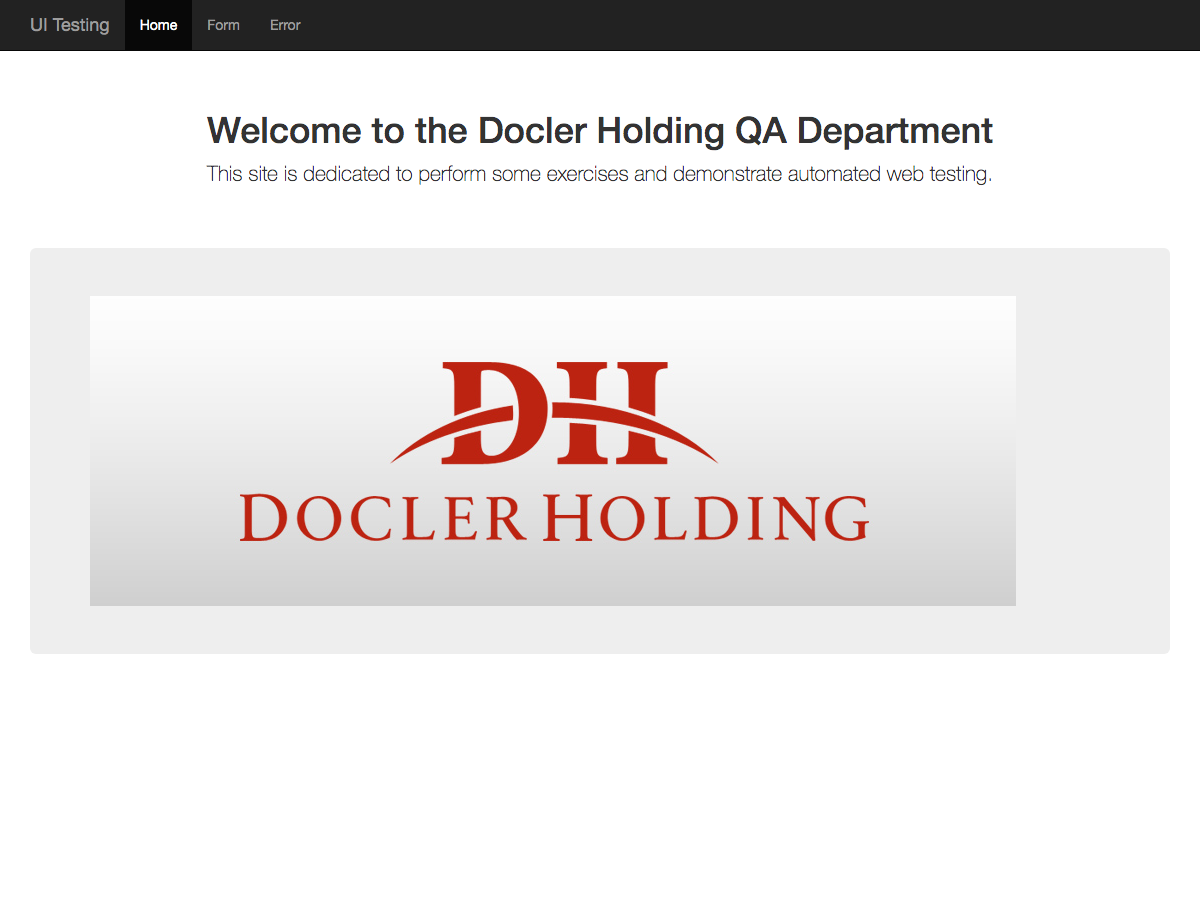
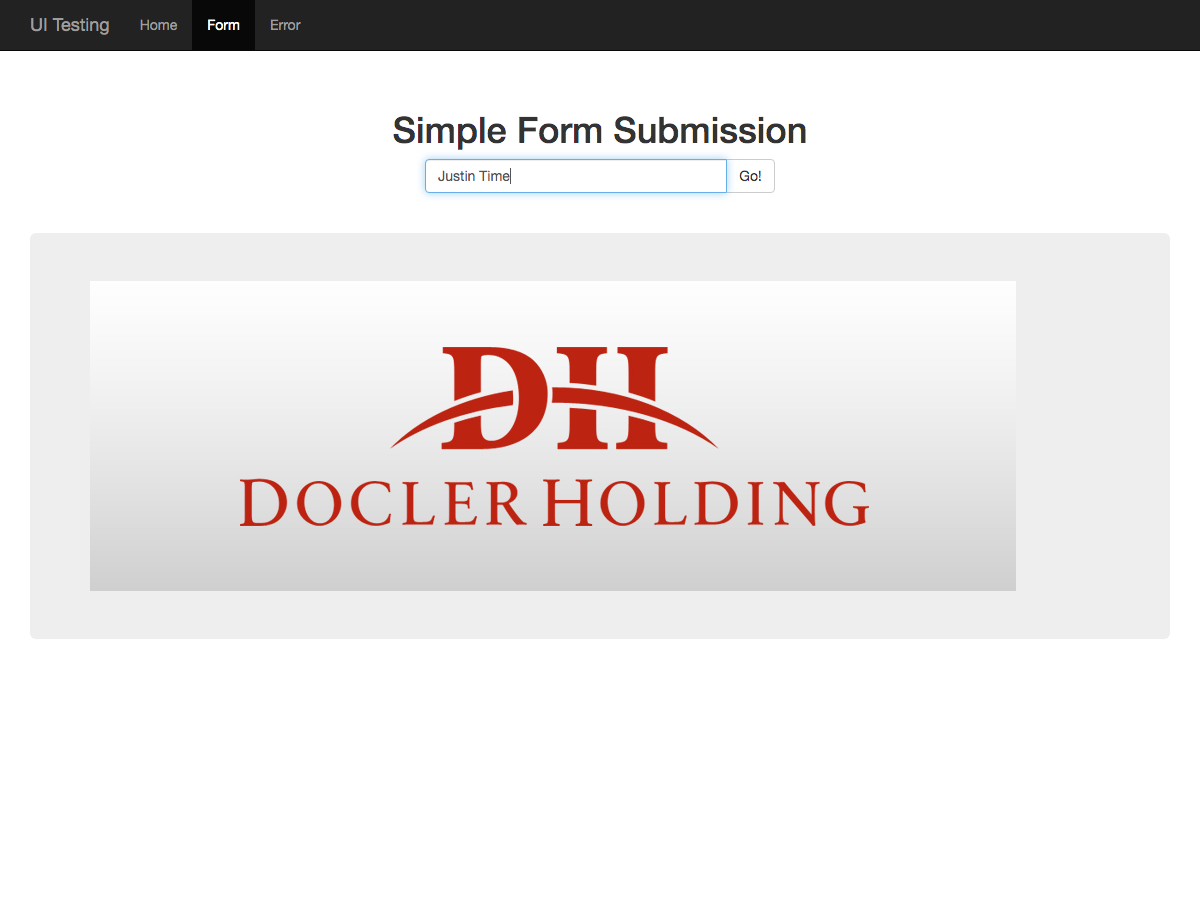
more obj and assertions

diff --git a/pages/landingPage.js b/pages/landingPage.js
@@ -2,13 +2,16 @@ const { I } = inject();
 
 module.exports = {
 	elements : {
-		title: ('UI Testing','a'),
-		welcomeMsg: ('Welcome to the Docler Holding QA Department', 'h1'),
-		subHeader: ('This site is dedicated to perform some exercises and demonstrate automated web testing.', 'h2'),
 		home: 'Home',
 		//Or home: '//*[@id="home"]',
+		aciveTab: '//li[contains(@class, "active") and ./a/text()="Name"]',
 		form: 'Form',
 		error: 'Error',
+		title: ('UI Testing','a'),
+		welcomeMsg: ('Welcome to the Docler Holding QA Department', 'h1'),
+		subHeader: ('This site is dedicated to perform some exercises and \
+		demonstrate automated web testing.', 'p'),
+		logo: '//*[@id="dh_logo"]',
 	},
 
 	//Methods
@@ -25,12 +28,12 @@ module.exports = {
 
 	//Actions
 	clickHome() {
-		I.click(this.elements.home)
+		I.click(this.elements.home);
 	}, 	
 	clickForm() {
-		I.click(this.elements.form)
+		I.click(this.elements.form);
 	},
 	clickError() {
-		I.click(this.elements.error)
+		I.click(this.elements.error);
 	}
 }

diff --git a/pages/formPage.js b/pages/formPage.js
@@ -1,0 +1,43 @@
+const { I } = inject();
+
+module.exports = {
+	elements : {
+		form: 'Form',
+		title: ('UI Testing','a'),
+		formTitle: ('Simple Form Submission', 'h1'),
+		logo: '//*[@id="dh_logo"]',
+		nameField: 'myName',
+		//or nameField: '//*[@id="hello-input"]'
+		okBtn: 'Go!',
+		aciveTab: '//li[contains(@class, "active") and ./a/text()="Form"]',
+	},
+
+	//other vars
+	name: 'Justin Time',
+
+	//Methods
+	//Read
+	readTitle(title) {
+		I.see(title);
+	},
+	readFormTitle(formTitle) {
+		I.see(formTitle);
+	},
+
+	//Actions
+	clickForm() {
+		I.click(this.elements.form);
+	},
+	writeName(name) {
+		I.fillField(this.elements.nameField, this.name);
+	},
+
+	//Asserts
+	assertTabActive (){
+		I.seeElement(this.elements.aciveTab);
+
+	},
+	assertName(name){
+		I.seeInField(this.elements.nameField, this.name);
+	}
+}

diff --git a/step_definitions/steps.js b/step_definitions/steps.js
@@ -1,9 +1,15 @@
 const { I } = inject();
 const landingPage = require('../pages/landingPage');
+const formPage = require('../pages/formPage');
 
 Given('the user has browsed to the homepage', () => I.amOnPage ('/'));
 
-Then('user reads title {string}', (title) => {
-	landingPage.checkTitle(title);
+Then('user reads title {string}', (title, nameField, name) => {
+	landingPage.readTitle(title);
 	landingPage.clickHome();
+	landingPage.clickForm();
+	formPage.readTitle(title);
+	formPage.writeName(name);
+	formPage.assertName(name);
+	formPage.assertTabActive();
 });

diff --git a/pages/helloPage.js b/pages/helloPage.js
@@ -1,0 +1,22 @@
+const { I } = inject();
+
+module.exports = {
+	elements : {
+		helloMsg: '//*[@id="hello-text"]',
+		logo: '//*[@id="dh_logo"]',
+	},
+
+	//Methods
+	//Read
+	readMsg(helloMsg) {
+		I.see(helloMsg);
+	},
+	readName(helloMsg) {
+		const helloName = I.grabTextFrom(helloMsg);
+	},
+
+	//Actions
+	clickHome() {
+
+	}
+}
